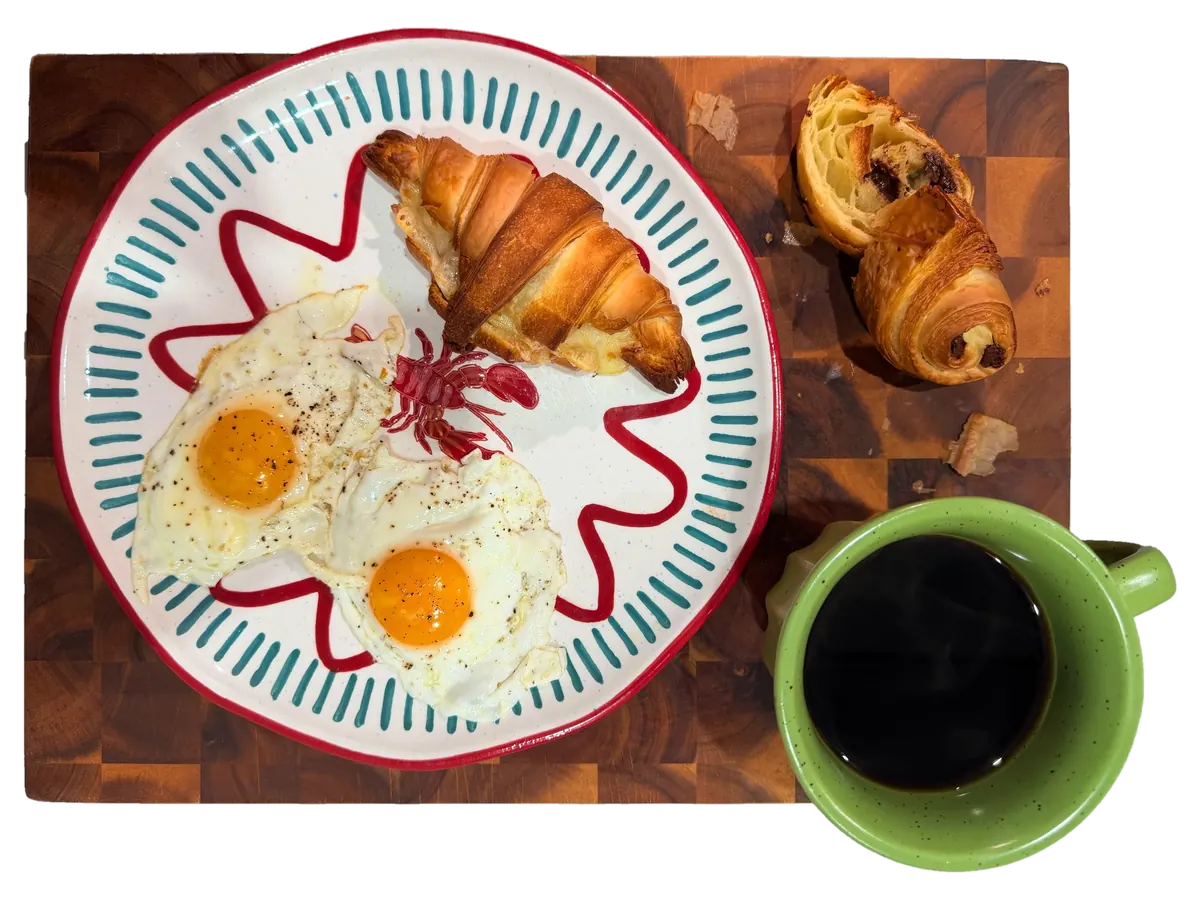
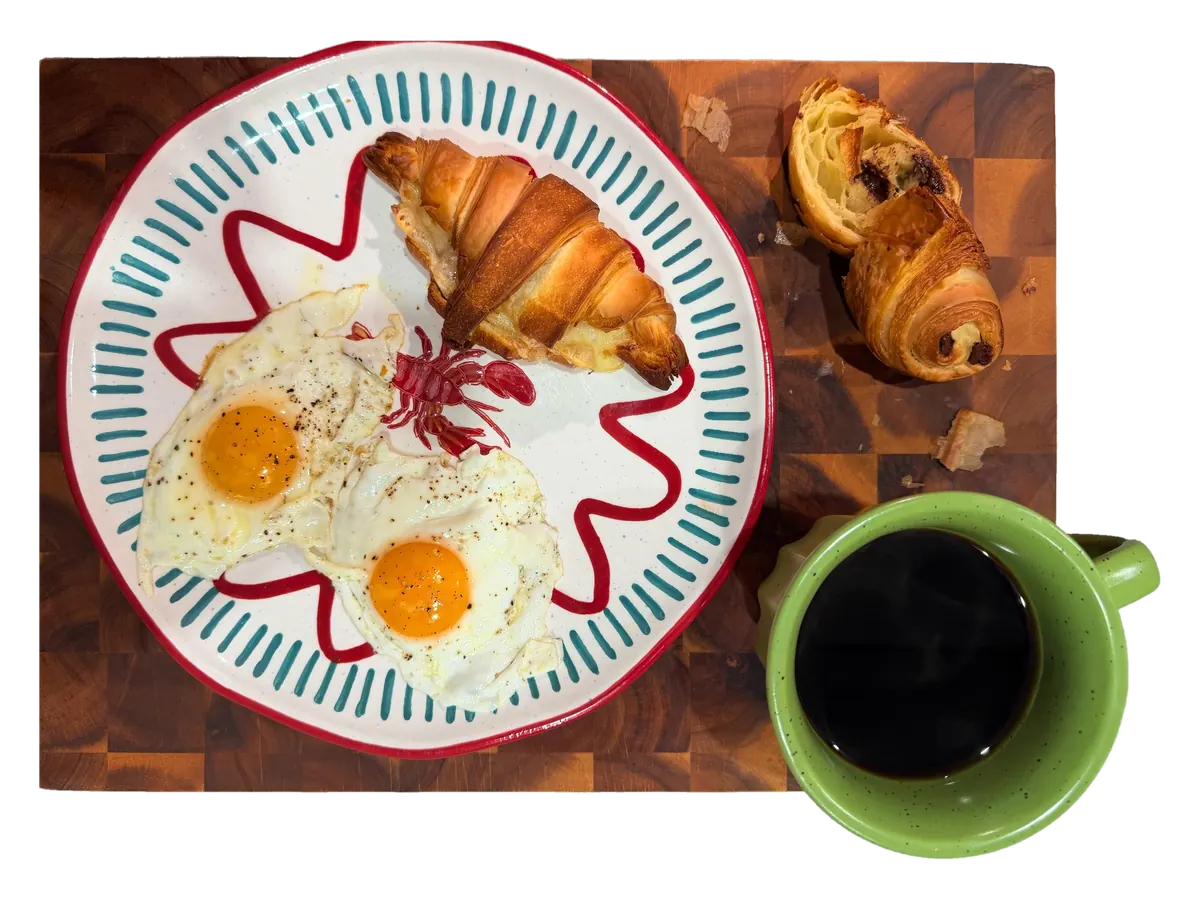
feat(site): brunch en haut de l'accueil, relief des photos et des cartes produits
- Haut de l'accueil : la photo du brunch (La Lune garnie, une Cabosse, un
  café) remplace le croissant détouré. Photo refaite à partir de la
  version rognée en bas, avec un peu plus de marge autour du plateau ;
  elle reste aussi la 2e photo de La Lune.
- Relief des photos détourées : ombre qui suit le contour du produit,
  teinte encre brune (jeton --relief-produit), sur les cartes, fiches,
  pop-up, galerie et le haut de l'accueil et des pages de lieu. La crème
  passe de l'image à une zone autour d'elle, pour que l'ombre suive le
  produit et non le rectangle ; la zone coupe l'ombre à son bord sauf sur
  les cartes et la galerie. Pas de relief sur la pastille de la page
  Commande.
- Cartes produits et pizzas : ombre de carte (--shadow-carte), plus
  marquée au survol, pour détacher la carte entière du fond crème des
  sections. Les cartes de gamme restent sans ombre.

Changed region(s): [[0.0, 0.0311, 0.9867, 0.9956]]

diff --git a/src/components/PhotoProduit.tsx b/src/components/PhotoProduit.tsx
@@ -4,29 +4,49 @@ import { HAUTEUR_PHOTO, LARGEUR_PHOTO, Photo } from "@/lib/photos";
 interface PhotoProduitProps {
   photo: Photo;
   sizes: string;
+  /**
+   * Classes de la zone photo (taille, marges, forme). La zone coupe l'ombre à son bord, comme un
+   * cadre ; « overflow-visible » quand elle a la couleur de la carte autour (cartes, galerie) :
+   * la coupe se verrait alors comme un trait.
+   */
   className?: string;
   /** Texte alternatif ; "" quand le nom du produit est déjà écrit à côté. */
   alt?: string;
   /** « eager » pour la photo principale d'une page (fiche produit) ; sinon chargée à l'approche de l'écran. */
   chargement?: "lazy" | "eager";
+  /**
+   * Vrai : le produit entier, avec une ombre qui suit son contour pour le détacher de la crème.
+   * Faux : une vignette recadrée (pastille), où l'ombre suivrait la découpe et non le produit.
+   */
+  relief?: boolean;
 }
 
 /**
  * Photo détourée d'un produit, au format 4:3, en 600 ou 1200 px selon la place à l'écran.
- * Posée sur la crème des cartes, jamais sur la couleur du produit.
+ * Posée sur la crème des cartes, jamais sur la couleur du produit. La crème est portée par la zone
+ * et l'ombre par l'image seule : une ombre sur un élément qui a un fond suivrait son rectangle.
  */
-const PhotoProduit = ({ photo, sizes, className, alt = photo.alt, chargement = "lazy" }: PhotoProduitProps) => (
-  <img
-    src={photo.petite}
-    srcSet={`${photo.petite} 600w, ${photo.grande} 1200w`}
-    sizes={sizes}
-    width={LARGEUR_PHOTO}
-    height={HAUTEUR_PHOTO}
-    alt={alt}
-    loading={chargement}
-    decoding="async"
-    className={cn("block w-full h-auto aspect-[4/3] object-cover rounded-xl bg-creme-carte", className)}
-  />
+const PhotoProduit = ({
+  photo,
+  sizes,
+  className,
+  alt = photo.alt,
+  chargement = "lazy",
+  relief = true,
+}: PhotoProduitProps) => (
+  <div className={cn("aspect-[4/3] overflow-hidden rounded-xl bg-creme-carte", className)}>
+    <img
+      src={photo.petite}
+      srcSet={`${photo.petite} 600w, ${photo.grande} 1200w`}
+      sizes={sizes}
+      width={LARGEUR_PHOTO}
+      height={HAUTEUR_PHOTO}
+      alt={alt}
+      loading={chargement}
+      decoding="async"
+      className={cn("block w-full h-full", relief ? "object-contain relief-produit" : "object-cover")}
+    />
+  </div>
 );
 
 export default PhotoProduit;

diff --git a/src/components/Hero.tsx b/src/components/Hero.tsx
@@ -4,8 +4,10 @@ import { PRIX_SACHET } from "@/lib/catalog";
 import { HAUTEUR_PHOTO, LARGEUR_PHOTO, photosDe } from "@/lib/photos";
 import { defilement } from "@/lib/utils";
 
-/* Photo de La Lune, détourée, posée directement sur le fond du site */
-const photoLune = photosDe("lune")[0];
+/* Le brunch vu du dessus (La Lune garnie, une Cabosse, un café), détouré, posé directement
+   sur le fond du site ; à défaut, la première photo de La Lune */
+const photosLune = photosDe("lune");
+const photoAccueil = photosLune.find((photo) => photo.n === 2) ?? photosLune[0];
 
 const Hero = () => {
   // Défilement doux vers les produits ; l'adresse (#…) reste un vrai lien
@@ -46,19 +48,19 @@ const Hero = () => {
           </div>
         </div>
 
-        {photoLune && (
+        {photoAccueil && (
           <img
-            src={photoLune.petite}
-            srcSet={`${photoLune.petite} 600w, ${photoLune.grande} 1200w`}
+            src={photoAccueil.petite}
+            srcSet={`${photoAccueil.petite} 600w, ${photoAccueil.grande} 1200w`}
             sizes="(min-width: 1024px) 456px, (min-width: 768px) calc(50vw - 64px), calc(100vw - 32px)"
             width={LARGEUR_PHOTO}
             height={HAUTEUR_PHOTO}
-            alt={photoLune.alt}
+            alt={photoAccueil.alt}
             loading="eager"
             // React 18 ne connaît que l'attribut HTML en minuscules
             {...{ fetchpriority: "high" }}
             decoding="async"
-            className="block w-full h-auto max-w-md mx-auto md:max-w-none"
+            className="block w-full h-auto max-w-md mx-auto md:max-w-none relief-produit"
           />
         )}
       </div>

diff --git a/src/index.css b/src/index.css
@@ -73,6 +73,13 @@
     /* Shadows */
     --shadow-soft: 0 4px 20px -4px hsl(200 40% 30% / 0.12);
     --shadow-hover: 0 8px 30px -8px hsl(200 40% 30% / 0.18);
+    /* Relief des photos détourées : ombre qui suit le contour du produit, teinte encre brune
+       (un contact net sous le produit, puis une ombre douce qui le décolle de la crème) */
+    --relief-produit: drop-shadow(0 2px 3px hsl(25 40% 15% / 0.28)) drop-shadow(0 12px 14px hsl(25 40% 15% / 0.24));
+    /* Cartes produits et pizzas : la crème carte est presque la couleur des sections, c'est l'ombre
+       qui détache la carte entière du fond (même teinte encre brune que le relief des photos) */
+    --shadow-carte: 0 1px 2px hsl(25 40% 15% / 0.05), 0 6px 16px -6px hsl(25 40% 15% / 0.13), 0 18px 34px -14px hsl(25 40% 15% / 0.19);
+    --shadow-carte-survol: 0 2px 4px hsl(25 40% 15% / 0.07), 0 10px 22px -8px hsl(25 40% 15% / 0.17), 0 26px 48px -16px hsl(25 40% 15% / 0.25);
 
     /* Couleur titre Dedjo — ambre chaud, entre le jaune et l'orange du logo */
     --color-dedjo: #C8690A;
@@ -171,6 +178,14 @@
   .text-balance {
     text-wrap: balance;
   }
+
+  .shadow-carte {
+    box-shadow: var(--shadow-carte);
+  }
+
+  .shadow-carte-survol {
+    box-shadow: var(--shadow-carte-survol);
+  }
 }
 
 @layer components {
@@ -196,6 +211,11 @@
 
   .shadow-hover {
     box-shadow: var(--shadow-hover);
+  }
+
+  /* Sur l'image elle-même, jamais sur un élément qui a un fond : l'ombre suivrait le rectangle */
+  .relief-produit {
+    filter: var(--relief-produit);
   }
 
   .section-sky {

diff --git a/src/components/CarteProduit.tsx b/src/components/CarteProduit.tsx
@@ -34,9 +34,9 @@ const CarteProduit = ({ product, statut, bordure, badge, onAjouter, onDetails }:
 
   return (
     <article
-      className={`group relative bg-creme-carte border-2 ${bordure} rounded-2xl ${
+      className={`group relative bg-creme-carte border-2 ${bordure} rounded-2xl shadow-carte hover:shadow-carte-survol ${
         compacte ? "p-4" : "p-5"
-      } flex flex-col text-left transition-transform duration-200 motion-safe:hover:-translate-y-0.5 has-[h3_:focus-visible]:ring-2 has-[h3_:focus-visible]:ring-ring has-[h3_:focus-visible]:ring-offset-2`}
+      } flex flex-col text-left transition-[transform,box-shadow] duration-200 motion-safe:hover:-translate-y-0.5 has-[h3_:focus-visible]:ring-2 has-[h3_:focus-visible]:ring-ring has-[h3_:focus-visible]:ring-offset-2`}
     >
       <Tampons product={product} />
       {photo && !compacte && (
@@ -45,7 +45,7 @@ const CarteProduit = ({ product, statut, bordure, badge, onAjouter, onDetails }:
           photo={photo}
           sizes={TAILLES_PHOTO.carte}
           alt=""
-          className="mb-4 h-48 md:h-52 aspect-auto object-contain"
+          className="mb-4 h-48 md:h-52 aspect-auto overflow-visible"
         />
       )}
 

diff --git a/src/components/PageLieu.tsx b/src/components/PageLieu.tsx
@@ -124,7 +124,7 @@ export const EnTeteLieu = ({ lieu, titre, intro, secteur }: EnTeteLieuProps) => 
           // React 18 ne connaît que l'attribut HTML en minuscules
           {...{ fetchpriority: "high" }}
           decoding="async"
-          className="block w-full h-auto max-w-56 mx-auto md:max-w-none"
+          className="block w-full h-auto max-w-56 mx-auto md:max-w-none relief-produit"
         />
       )}
     </div>
@@ -299,7 +299,7 @@ export const GaleriePhotos = ({ titre }: { titre: string }) => {
             const fiche = ficheDe(p.id);
             const contenu = (
               <>
-                <PhotoProduit photo={photo} sizes={TAILLES_PHOTO.galerie} />
+                <PhotoProduit photo={photo} sizes={TAILLES_PHOTO.galerie} className="overflow-visible" />
                 <p className="font-display text-lg md:text-xl leading-snug text-foreground mt-2 md:mt-3">{p.name}</p>
                 <p className="text-sm text-muted-foreground mt-0.5">{typeDe(p)}</p>
               </>

diff --git a/src/components/PizzasSection.tsx b/src/components/PizzasSection.tsx
@@ -19,7 +19,7 @@ const PizzasSection = () => {
       type="button"
       onClick={() => handleProductClick(pizza)}
       aria-haspopup="dialog"
-      className={`group bg-creme-carte border-2 ${pizza.color} rounded-2xl p-5 text-left flex flex-col transition-transform duration-200 motion-safe:hover:-translate-y-0.5 focus-visible:outline-none focus-visible:ring-2 focus-visible:ring-ring focus-visible:ring-offset-2`}
+      className={`group bg-creme-carte border-2 ${pizza.color} rounded-2xl shadow-carte hover:shadow-carte-survol p-5 text-left flex flex-col transition-[transform,box-shadow] duration-200 motion-safe:hover:-translate-y-0.5 focus-visible:outline-none focus-visible:ring-2 focus-visible:ring-ring focus-visible:ring-offset-2`}
     >
       <h4 className="font-display text-xl leading-snug mb-1.5 text-foreground">{pizza.name}</h4>
       <p className="text-foreground/80 flex-grow">{pizza.description}</p>

diff --git a/src/pages/Commande.tsx b/src/pages/Commande.tsx
@@ -294,6 +294,7 @@ const Commande = () => {
               photo={photosDe(p.id)[0]}
               sizes={TAILLES_PHOTO.pastille}
               alt=""
+              relief={false}
               className="w-9 h-9 rounded-full flex-shrink-0"
             />
           ) : null}
